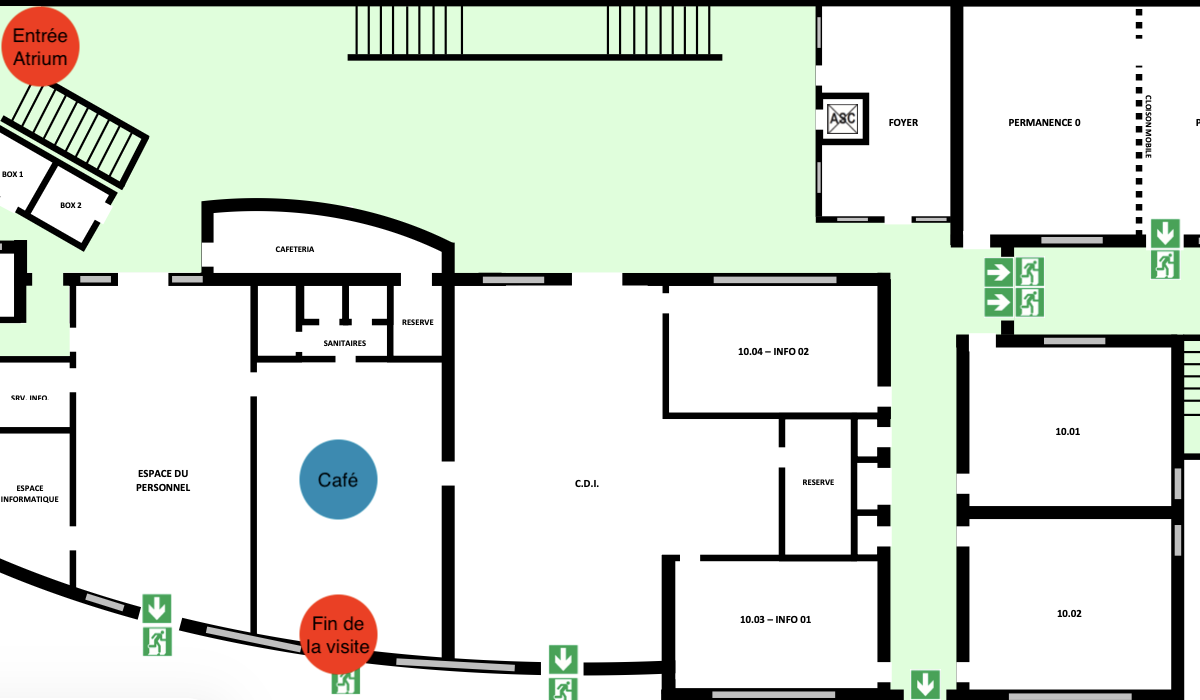
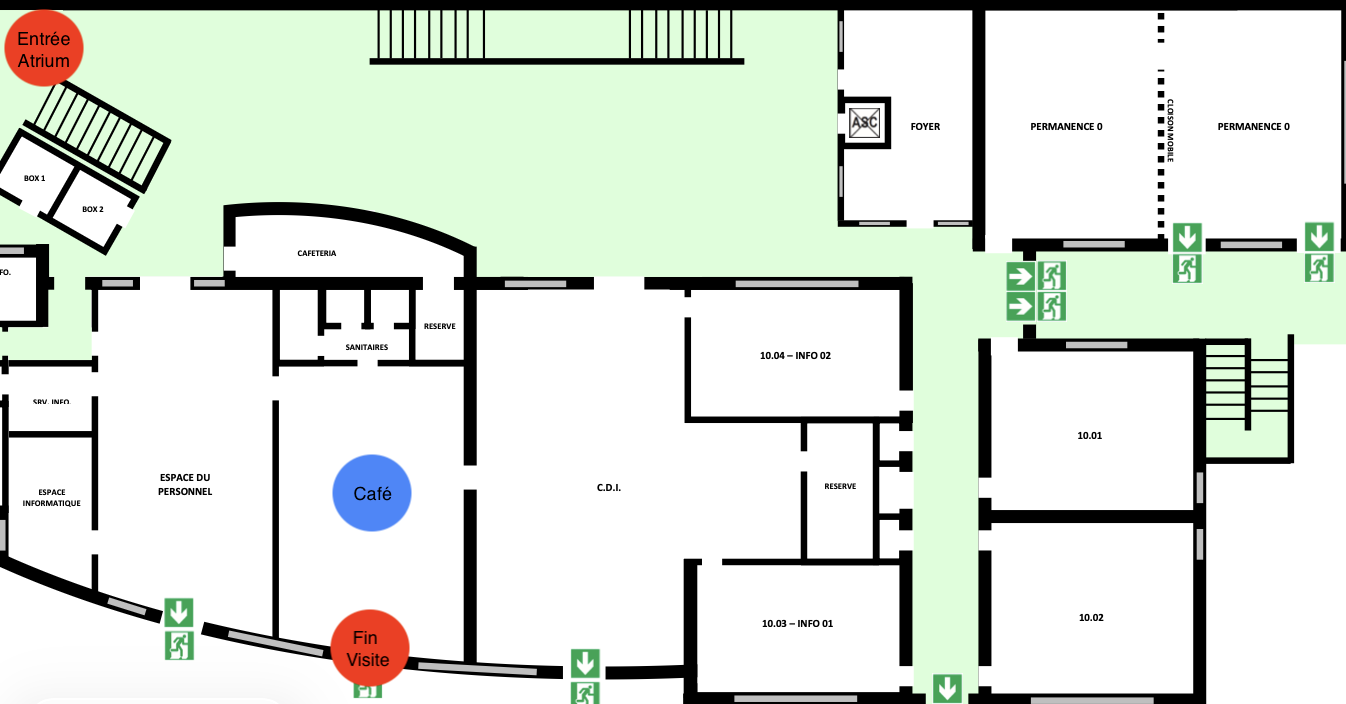
retour -1

Changed region(s): [[0.0, 0.0, 1.0, 1.0], [0.4317, 0.69, 0.4625, 0.72]]

diff --git a/js/10rdc/data-stands.js b/js/10rdc/data-stands.js
@@ -58,9 +58,19 @@ const stands = [
     cursus : "Aller au 1er étage",
     nom: "Escalier",
     exposant: "Lycée Professionnel - Lycée Général et Technologique",
-    coords: [400,300], // y, x en pixels,
+    coords: [350,280], // y, x en pixels,
     titreInfo:"Accéder",
     info:"../doc/plan101er.html",
+  },
+  {atelier:false,
+    pro:false,
+    gt:false,
+    cursus : "Retour au niveau -1",
+    nom: "Escalier",
+    exposant: "Lycée Professionnel - Lycée Général et Technologique",
+    coords: [300,340], // y, x en pixels,
+    titreInfo:"Accéder",
+    info:"../doc/plan10moins1.html",
   },
    {atelier:false,
     pro:false,
